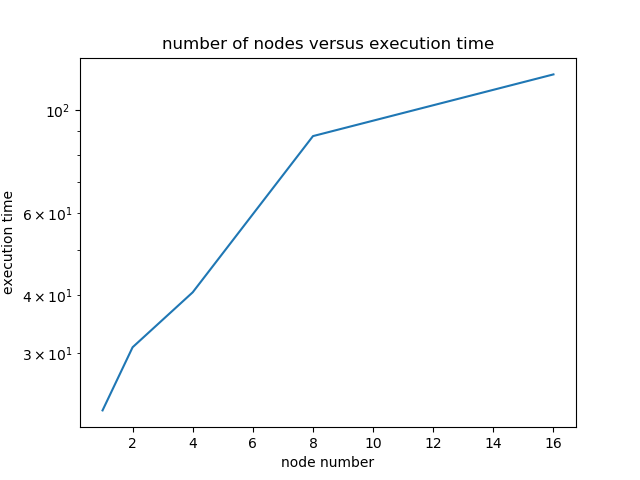
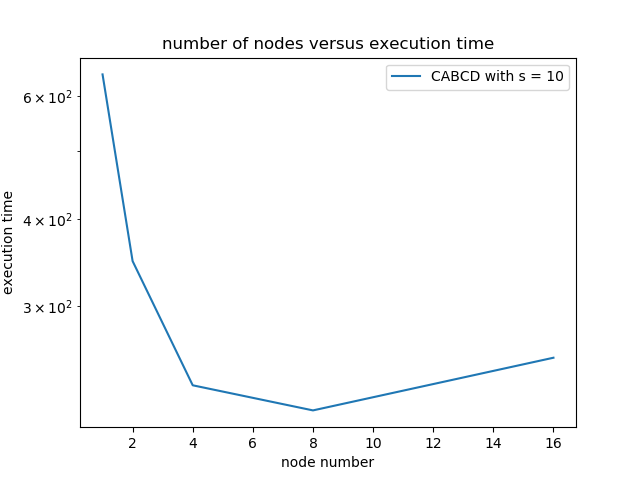
update scaling benchmark

diff --git a/strong_scaling_ridge.py b/strong_scaling_ridge.py
@@ -6,27 +6,36 @@ import matplotlib
 import matplotlib.pyplot as plt
 import numpy as np
 
-def benchmark_nodes(sc, M, N, l, mu, s, eps):
+def benchmark_nodes(M, N, l, mu, s, eps):
 	legends = []
 	nodes_num = 2**np.arange(0,5,1)
 	execution_times = []
 	for node_num in nodes_num:
-
+		conf = SparkConf().setAll([('spark.executor.cores', '16'), ('spark.executor.instances', str(node_num))])
+		sc = SparkContext(conf=conf)
+		sc.setLogLevel("ERROR")
+		sc.setCheckpointDir(os.getcwd())
 		print(node_num)
 		A = RandomRDDs.uniformVectorRDD(sc, M, N, numPartitions=int(node_num), seed=1)
 		b = RandomRDDs.uniformRDD(sc, M, numPartitions=int(node_num), seed=2)
 		x_CABCD, metrics = CABCD(sc, A, b, M, N, l, mu, s, eps)
+		sc.stop()
 		print(metrics)
 		execution_times.append(metrics['execution'])
 
-	for node_num in nodes_num:
-
-		print(node_num)
-		A = RandomRDDs.uniformVectorRDD(sc, M, N, numPartitions=int(node_num), seed=1)
-		b = RandomRDDs.uniformRDD(sc, M, numPartitions=int(node_num), seed=2)
-		x_CABCD, metrics = BCD(sc, A, b, M, N, l, mu, eps)
-		print("time", metrics['execution'])
-		execution_times.append(metrics['execution'])
+	# for node_num in nodes_num:
+	# 	conf = SparkConf().setAll([('spark.executor.cores', '1'), ('spark.executor.instances', str(node_num))])
+	# 	sc = SparkContext(conf=conf)
+	# 	sc.setLogLevel("ERROR")
+	# 	sc.setCheckpointDir(os.getcwd())
+		
+	# 	print(node_num)
+	# 	A = RandomRDDs.uniformVectorRDD(sc, M, N, numPartitions=int(node_num), seed=1)
+	# 	b = RandomRDDs.uniformRDD(sc, M, numPartitions=int(node_num), seed=2)
+	# 	x_CABCD, metrics = BCD(sc, A, b, M, N, l, mu, eps)
+	# 	sc.stop()
+	# 	print("time", metrics['execution'])
+	# 	execution_times.append(metrics['execution'])
 	
 	ax = plt.axes()   
 	plt.plot(nodes_num, execution_times)
@@ -46,20 +55,10 @@ if __name__ == "__main__":
 	plt.switch_backend('agg')
 	matplotlib.use('TkAgg')
 
-	numExecutors = 1
-	numPartitions = 1
-	conf = SparkConf().setAll([('spark.executor.cores', '1'), ('spark.executor.instances', str(numExecutors))])
-	sc = SparkContext('local', conf=conf)
-	sc.setCheckpointDir(os.getcwd())
-	output_file = open("benchmark_mu.csv", "w")
-	output_file.write("mu,execution,sequential,remote,iterations\n")
-	output_file.close()
-	M = 2000
-	N = 100
+	M = 10000
+	N = 500
 	l = 0.5
 	eps = 0.1
 	mu = 4
-	Ss = [3,6,9]
 	s = 10
-	sc.setLogLevel("ERROR")
-	benchmark_nodes(sc, M, N, l, mu, s, eps)
+	benchmark_nodes(M, N, l, mu, s, eps)

diff --git a/benchmark_bcd_blockSize.py b/benchmark_bcd_blockSize.py
@@ -51,13 +51,13 @@ if __name__ == "__main__":
 	num_executors = 1
 	num_partitions = 1
 	conf = SparkConf().setAll([('spark.executor.cores', '1'), ('spark.executor.instances', str(num_executors))])
-	sc = SparkContext('local', conf=conf)
+	sc = SparkContext(conf=conf)
 	sc.setCheckpointDir(os.getcwd())
 	output_file = open("benchmark_mu.csv", "w")
 	output_file.write("mu,execution,sequential,remote,iterations\n")
 	output_file.close()
-	M = 700
-	N = 200
+	M = 200
+	N = 700
 	if use_dual:
 		A_p = RandomRDDs.uniformVectorRDD(sc, N, M, numPartitions=num_partitions, seed=1)
 	else:

diff --git a/benchmark_cabcd_s.py b/benchmark_cabcd_s.py
@@ -20,7 +20,7 @@ def benchmark_S(sc, A, b, M, N, l, mu, eps, Ss, use_dual, num_partitions):
 	residuals = metrics['residual']
 	total_iteration = len(residuals)*5
 	xs = np.arange(5,total_iteration+1, 5)
-	alg = "CABCD" if not use_dual else "CABDCD"
+	alg = "BCD" if not use_dual else "BDCD"
 	legends.append(alg)
 	plt.plot(xs, residuals)
 	for s in Ss:

diff --git a/ridge.py b/ridge.py
@@ -294,6 +294,7 @@ if __name__ == "__main__":
 	conf = SparkConf().setAll([('spark.executor.cores', '1'), ('spark.executor.instances', str(numExecutors))])
 	sc = SparkContext(conf=conf)
 	sc.setCheckpointDir(os.getcwd())
+	sc.setLogLevel("ERROR")
 
 
 	A_p = RandomRDDs.uniformVectorRDD(sc, M, N, numPartitions=numPartitions, seed=1)

diff --git a/ridge_dual.py b/ridge_dual.py
@@ -296,6 +296,7 @@ if __name__ == "__main__":
 	conf = SparkConf().setAll([('spark.executor.cores', '1'), ('spark.executor.instances', str(numExecutors))])
 	sc = SparkContext(conf=conf)
 	sc.setCheckpointDir(os.getcwd())
+	sc.setLogLevel("ERROR")
 
 
 	A_p = RandomRDDs.uniformVectorRDD(sc, N, M, seed=1, numPartitions=numPartitions)
